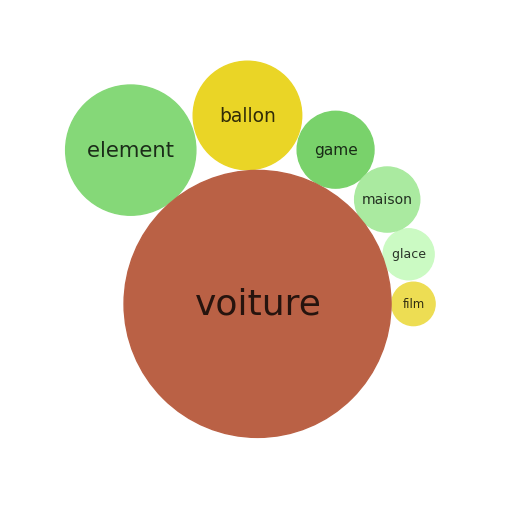
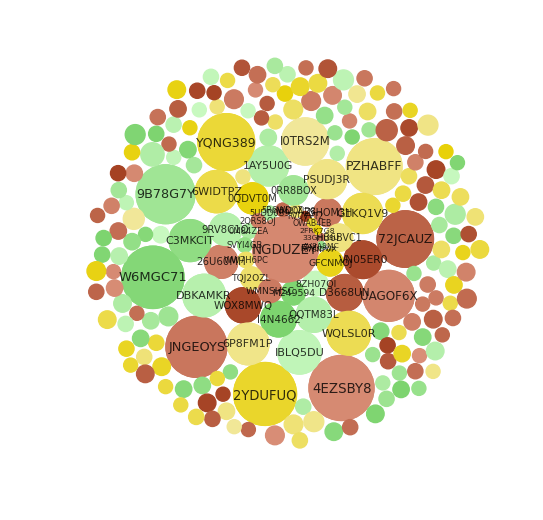
Function works !

diff --git a/main/graphics.py b/main/graphics.py
@@ -62,14 +62,16 @@ class color:
 
 class bubble_fig:
 
-    def __init__(self,width, height,sentences,sentiment,colorList):
+    def __init__(self,width, height,sentences,sentiment,colorList,middle,sort,fill):
         self.sizeX = width
         self.sizeY = height
         self.sentences= sentences
         self.sentiment = sentiment
         self.colors_list= colorList
         self.to_draw = self.generate_new_size(sentences)
-        self.generate_positions(self.to_draw,self.sizeX/2,self.sizeY/2,self.sentiment,self.colors_list)
+        self.pos_depart_x  = self.sizeX/2
+        self.pos_depart_y  = self.sizeY/2
+        self.generate_positions(self.to_draw,self.sizeX/2,self.sizeY/2,self.sentiment,self.colors_list,middle,sort,fill)
 
     
     def show_points(self):
@@ -83,6 +85,7 @@ class bubble_fig:
         X = []
         Y = []
         sizes = []
+        print("longueur de small",len(self.small))
         colorss = []
         words = []
         for circ in self.circles:
@@ -92,21 +95,30 @@ class bubble_fig:
             sizes.append(circles.get_radius())
             colorss.append(circles.get_color())
             words.append(circ)
+        for element in self.small:
+            circles = element
+            X.append(circles.get_pos_x())
+            Y.append(circles.get_pos_y())
+            sizes.append(circles.get_radius())
+            colorss.append(circles.get_color())
         fig = plt.figure()
         fig.patch.set_facecolor('white')
         ax = fig.add_subplot(111, aspect='equal')
         for x, y, r , c , w  in zip(X, Y, sizes , colorss , words):
             ax.add_artist(Circle(xy=(x, y), radius = r , color = c ))  
-            ax.text(x, y, w, fontsize=(r/18)*1.5+5, alpha = 0.8, horizontalalignment='center',verticalalignment='center')    
-        plt.xlim(0, max(X) + 200)
-        plt.ylim(0, max(Y) + 200)
+            ax.text(x, y, w, fontsize=(r/18)*1.5+5, alpha = 0.8, horizontalalignment='center',verticalalignment='center')
+        restant = int(len(X)-len(words))
+        for x, y, r, c   in zip(X[:restant], Y[:restant], sizes[:restant] , colorss[:restant]):
+            ax.add_artist(Circle(xy=(x, y), radius = r , color = c ))  
+        plt.xlim( self.pos_depart_x - self.d2 -max(sizes), self.d2 +self.pos_depart_x+ +max(sizes))
+        plt.ylim(self.pos_depart_y-self.d2 -max(sizes), self.d2 + self.pos_depart_y+max(sizes))
         plt.axis('off')
         plt.savefig("test-bubbles.png",bbox_inches='tight')
         plt.show()
 
     def generate_new_size(self,sentences):
         to_draw = {}
-        total = sum([element[1] for element in sentences])
+        total = sum([element[1] for element in sentences])/2.0
         resize = min(sizeX,sizeY)
         for element,poids in sentences:
             to_draw[element] = (poids* (resize/total))
@@ -130,21 +142,36 @@ class bubble_fig:
                 return new_colo
         return np.random.rand(1)
         
-    
-    
+    def distance(self,a,b):
+        return np.linalg.norm(a-b)
 
-    def generate_positions(self,to_draw,pos_departX,pos_departY,sentiment,colors):
+    def get_d_max(self):
+        maxs = 0.0
+        posX = np.array([self.pos_depart_x,self.pos_depart_y])
+        for circ in self.circles:
+            pos2 = self.distance(np.array([self.circles[circ].get_pos_x()+self.circles[circ].get_radius(),self.circles[circ].get_pos_y()+self.circles[circ].get_radius()]),posX)
+            maxs = max(maxs,pos2)
+        return maxs
+        
+            
+        
+
+    def generate_positions(self,to_draw,pos_departX,pos_departY,sentiment,colors,middle,sort,fill):
         tab = list(self.frange(0,2,1/(float(len(colors))/2)))
         #print(color.get_interpolation(vert1,vert2,1.0))
         self.circles = {}
+        self.small = []
         radius = 10.0
         self.liste = []
         (max_element, max_value) = ("",0.0)
         (min_element, min_value) = ("",99999)
         to_draw = sorted(to_draw.items(), key=operator.itemgetter(1),reverse= True)
+        if(not sort):
+            random.shuffle(to_draw)
         (max_element, max_value) = to_draw[0]
         (min_element, min_value) = to_draw[len(to_draw)-1]
-        self.circles[max_element] = circle(pos_departX,pos_departY,max_value,self.get_good_color(colors,sentiment[max_element],tab))
+        if(middle):
+            self.circles[max_element] = circle(pos_departX,pos_departY,max_value,self.get_good_color(colors,sentiment[max_element],tab))
         nbIter = 1
         while(len(self.circles) != len(to_draw)):
             #increase this value to improve performances
@@ -164,7 +191,31 @@ class bubble_fig:
                     if(to_add):
                         self.circles[element] = tmp_Circle
             radius += 2
-
+        if fill:
+            radius = 15.0
+            count = 0
+            d2_max = self.get_d_max()+80
+            self.d2 = d2_max
+            taille_new = 12.0
+            while(radius < d2_max):
+                #increase this value to improve performances
+                nbIter += 0.01
+                print((radius/float(d2_max)) * 100.0,d2_max)
+                for i in self.frange(0,360,np.log2(nbIter)):
+                    angle = math.radians(i)
+                    x = pos_departX + radius *  math.cos(angle)
+                    y = pos_departY + radius * math.sin(angle)
+                    tmp_Circle = circle(x,y,(taille_new+random.randint(0,30)), self.get_good_color(colors,random.random(),tab))
+                    to_add = True
+                    for circ in self.circles:
+                        if(tmp_Circle.intersect(self.circles[circ])):
+                            to_add = False
+                    for circ in self.small:
+                        if(tmp_Circle.intersect(circ)):
+                            to_add = False
+                    if(to_add):
+                        self.small.append(tmp_Circle)
+                radius += 1
     def circles_infos(self):
         for circ in self.circles:
             self.circles[circ].show_informations()
@@ -189,10 +240,9 @@ for i in range(50):
 
 
 colors_list= [color(165,66,35),color(219,145,122),color(232,209,8),color(242,233,160),color(121,210,107),color(204,251,196)]
-
-fig_bubble = bubble_fig(sizeX,sizeY,sentences,sentiment,colors_list)
+fig_bubble = bubble_fig(sizeX,sizeY,sentences,sentiment,colors_list,True,True,True)
 fig_bubble.show_points()
 fig_bubble.show_points_final()
-fig_bubble.circles_infos()
+#fig_bubble.circles_infos()
 
 
